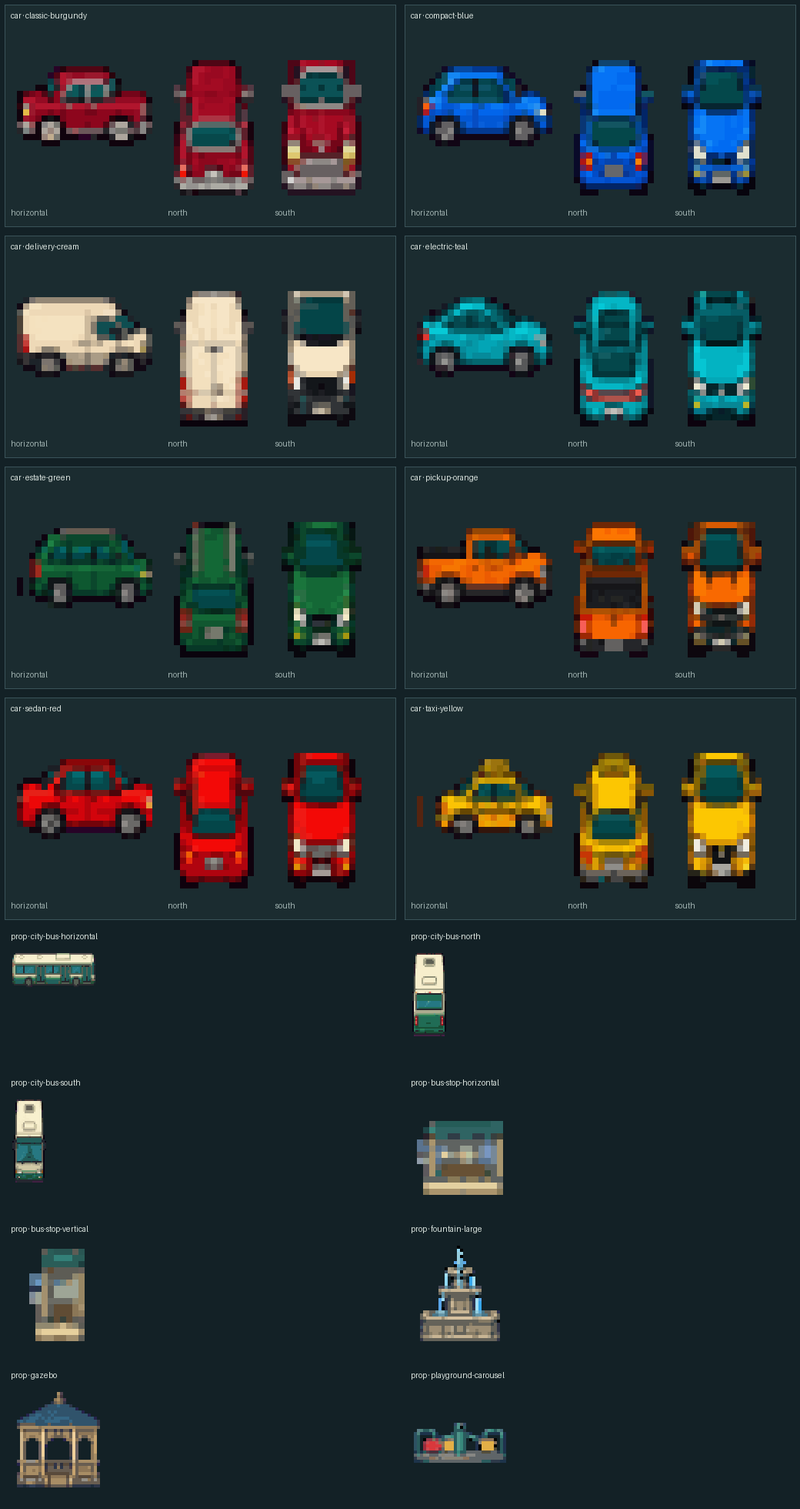
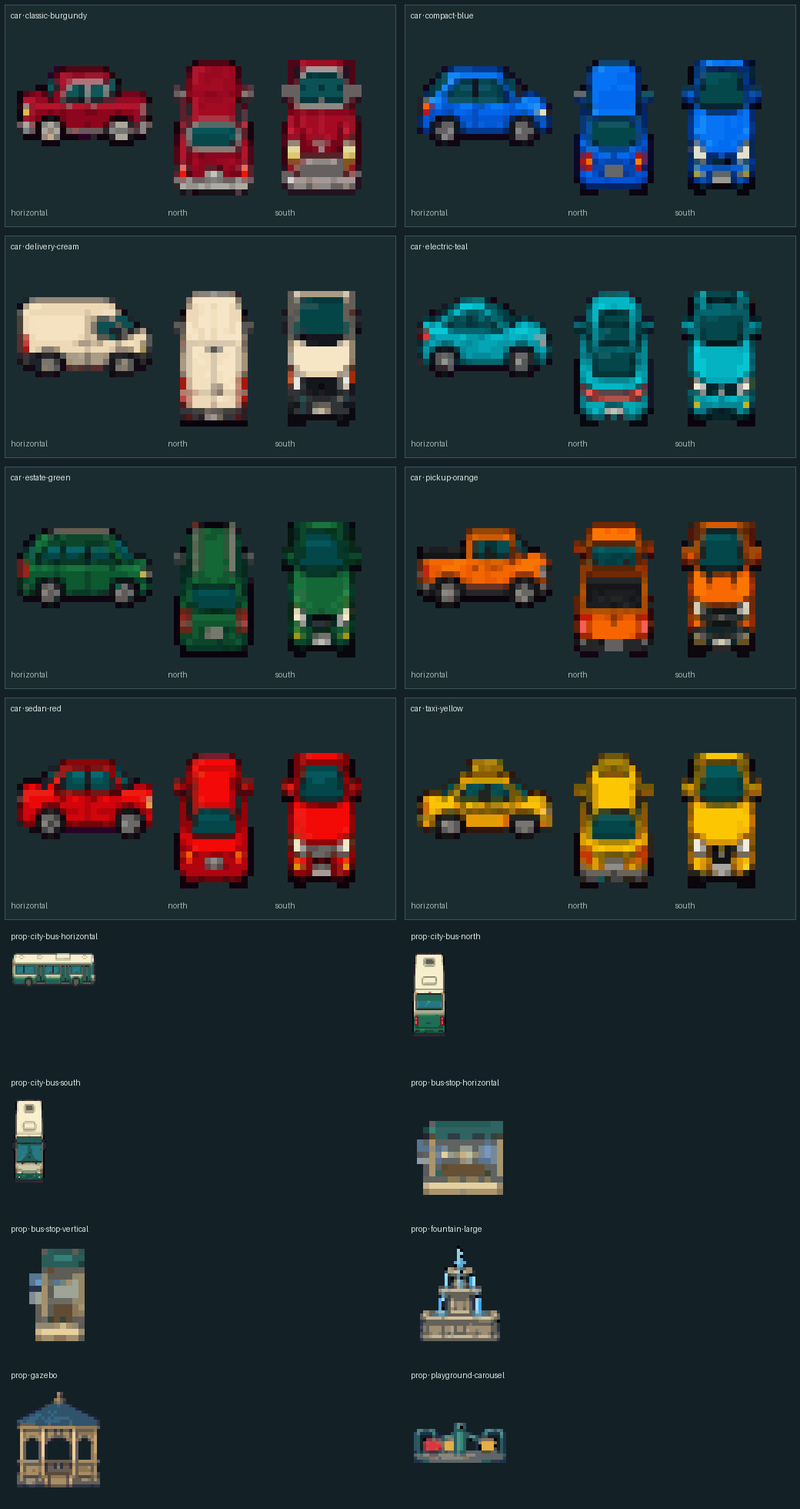
fix: prove mixed traffic and clean vehicle shadows

Changed region(s): [[0.5231, 0.498, 0.7077, 0.5602], [0.0, 0.3423, 0.1846, 0.4046]]

diff --git a/tests/agent-routing.test.ts b/tests/agent-routing.test.ts
@@ -421,7 +421,7 @@ describe("living city agent routing", () => {
     expect(decisions.get("westbound")?.advance).toBeGreaterThan(0);
   });
 
-  it("drains four signal-controlled queues without starvation", () => {
+  it.each(["T", "X"] as const)("drains mixed CAR/BUS queues through a %s junction without starvation", (shape) => {
     type SimVehicle = TrafficVehicleSnapshot & {
       trail: { x: number; y: number }[];
       baseSpeed: number;
@@ -433,31 +433,37 @@ describe("living city agent routing", () => {
       id: "queue-drain",
       bounds: { minX: -3, minY: -3, maxX: 3, maxY: 3 },
       cells: Array.from({ length: 49 }, (_, index) => ({ x: index % 7 - 3, y: Math.floor(index / 7) - 3 })),
-      arms: ["N", "E", "S", "W"],
+      arms: shape === "X" ? ["N", "E", "S", "W"] : ["E", "S", "W"],
       signalPosts: [],
     };
     const range = (start: number, end: number) => Array.from(
       { length: Math.abs(end - start) + 1 },
       (_, index) => start + Math.sign(end - start) * index,
     );
-    const routes = {
+    const allRoutes = {
       east: range(-32, 32).map((x) => ({ x, y: 2 })),
       west: range(32, -32).map((x) => ({ x, y: -2 })),
       south: range(-32, 32).map((y) => ({ x: -2, y })),
       north: range(32, -32).map((y) => ({ x: 2, y })),
     };
+    const routes = Object.entries(allRoutes).filter(([approach]) => shape === "X" || approach !== "north");
     const vehicles: SimVehicle[] = [];
-    for (const [approach, route] of Object.entries(routes)) {
-      for (let queueIndex = 0; queueIndex < 6; queueIndex += 1) {
-        const path = route.slice(26 - queueIndex * 4);
+    for (const [approach, route] of routes) {
+      for (let queueIndex = 0; queueIndex < 3; queueIndex += 1) {
+        // The leader starts one cell before the largest (bus) stop envelope;
+        // later queue members retain a full body-and-gap separation. This is
+        // the same admissible spawn geometry used by the runtime traffic core.
+        const path = route.slice(23 - queueIndex * 9);
+        const kind = queueIndex === 0 && (approach === "east" || approach === "south") ? "BUS" : "CAR";
+        const baseSpeed = vehicleCruiseSpeed(kind, kind === "BUS" ? 0 : 0.5);
         vehicles.push({
           id: `${approach}-${queueIndex}`,
-          kind: "CAR",
+          kind,
           current: path[0]!,
           next: path[1]!,
           progress: 0,
-          cruiseSpeed: 0.0024,
-          baseSpeed: 0.0024,
+          cruiseSpeed: baseSpeed,
+          baseSpeed,
           path,
           trail: [],
           stoppedMs: 0,
@@ -468,7 +474,14 @@ describe("living city agent routing", () => {
 
     let elapsedMs = 0;
     let maxStoppedMs = 0;
-    while (vehicles.length > 0 && elapsedMs < 120_000) {
+    let previousPhase = trafficSignalPhase(junction, 0);
+    const insideConflictZone = (vehicle: SimVehicle) => (
+      vehicle.current.x >= junction.bounds.minX
+      && vehicle.current.x <= junction.bounds.maxX
+      && vehicle.current.y >= junction.bounds.minY
+      && vehicle.current.y <= junction.bounds.maxY
+    );
+    while (vehicles.length > 0 && elapsedMs < 180_000) {
       for (const vehicle of vehicles) {
         const signal = trafficSignalDecision(
           vehicle.current,
@@ -483,6 +496,14 @@ describe("living city agent routing", () => {
           ? 0
           : vehicle.baseSpeed;
       }
+      const phase = trafficSignalPhase(junction, elapsedMs);
+      if (previousPhase.horizontal !== "GREEN" && phase.horizontal === "GREEN") {
+        expect(vehicles.filter((vehicle) => vehicle.current.y !== vehicle.next.y && insideConflictZone(vehicle)), `vertical tail at ${elapsedMs}ms`).toEqual([]);
+      }
+      if (previousPhase.vertical !== "GREEN" && phase.vertical === "GREEN") {
+        expect(vehicles.filter((vehicle) => vehicle.current.x !== vehicle.next.x && insideConflictZone(vehicle)), `horizontal tail at ${elapsedMs}ms`).toEqual([]);
+      }
+      previousPhase = phase;
       const decisions = planVehicleFrame(vehicles, 50);
       for (const vehicle of vehicles) {
         const advance = decisions.get(vehicle.id)?.advance ?? 0;
@@ -502,11 +523,12 @@ describe("living city agent routing", () => {
         if (vehicles[index]!.path.length < 2) vehicles.splice(index, 1);
       }
       expect(vehicleUnsafePairCount(vehicles), `unsafe pair at ${elapsedMs}ms`).toBe(0);
+      expect(vehicles.every((vehicle) => Math.abs(vehicle.next.x - vehicle.current.x) + Math.abs(vehicle.next.y - vehicle.current.y) <= 1), `wrong-way segment at ${elapsedMs}ms`).toBe(true);
       elapsedMs += 50;
     }
 
     expect(vehicles).toHaveLength(0);
-    expect(maxStoppedMs).toBeLessThan(60_000);
+    expect(maxStoppedMs).toBeLessThan(120_000);
   });
 
   it("slows a following car before it reaches the vehicle ahead", () => {

diff --git a/.agents/skills/tasktopia-pixel-city-art/scripts/audit_pixel_style.py b/.agents/skills/tasktopia-pixel-city-art/scripts/audit_pixel_style.py
@@ -366,7 +366,7 @@ def audit(manifest_path: Path, runtime: Path) -> dict[str, Any]:
                     errors.append(f"vehicles/{variant}/horizontal: model is too small at native scale")
                 if orientation in {"north", "south"} and (width < 12 or height < 21):
                     errors.append(f"vehicles/{variant}/{orientation}: model is too small at native scale")
-            if orientation in {"north", "south"}:
+            if orientation in {"horizontal", "north", "south"}:
                 alpha = image.getchannel("A")
                 remaining = {
                     (x, y) for y in range(image.height) for x in range(image.width)

diff --git a/scripts/build-pixel-city-pack.py b/scripts/build-pixel-city-pack.py
@@ -2432,8 +2432,7 @@ def build_manifest(specs: list[HouseSpec]) -> dict:
                     if grid
                     else ai_sheet_segment(source, segment_index, segment_count)
                 )
-                if orientation == "north":
-                    source_segment = keep_largest_opaque_component(remove_ai_chroma_key(source_segment))
+                source_segment = keep_largest_opaque_component(remove_ai_chroma_key(source_segment))
                 image = normalize_ai_authored_ambient(
                     source_segment,
                     canvas_size,

diff --git a/docs/WORLD-GENERATION.md b/docs/WORLD-GENERATION.md
@@ -126,7 +126,7 @@ Renderer рисует terrain → surfaces → roads → optional district bound
 
 PixiJS-приложение живёт всё время выбранной страны и не пересоздаётся при bootstrap/status refresh: effect зависит только от стабильных `countryId`, `chunkSize` и `terrainSeed`, а изменяемые UI callbacks читаются через refs. Сразу после bootstrap main thread синхронно рисует seed-only terrain через дешёвый `Graphics → GPU texture`: первый зелёный кадр не ждёт HTTP, Worker, PNG или manifest assets. `GET /api/world/viewport` параллельно приносит server-owned overlay и атомарно заменяет временный ground. Декор, дороги и здания до authoritative ответа не выдумываются. На дальнем масштабе строится только каждая четвёртая terrain-клетка; decorations и world features отсутствуют, здания заменяются дешёвыми footprint-блоками. На близком масштабе включаются полный detail LOD, платформы и авторские спрайты. Платформа готового здания выводится на фронте из `footprint + platform`, а не хранится отдельной россыпью клеток. Terrain, surfaces и roads каждого LOD-чанка запекаются в одну GPU-текстуру `512×512`; очередь допускает не больше одного bake за animation frame. Ground assets загружаются отдельно и рисуются до фасадов/props, а entity-данные становятся доступны reconcile только после готовности своих текстур; динамические районы, здания, декор и агенты остаются reconcile-слоями. Смена LOD готовит текстуры постепенно, но устанавливает весь ground атомарно до dynamic entities. Панорамирование использует bounded payload/decoded/GPU LRU. Socket.IO несёт `affectedBounds`; обычный status/progress сначала загружает новый stage asset, затем патчит только задачу без chunk HTTP и ground bake. Последний realtime status дополнительно накладывается после materialization, поэтому старый ответ в полёте не возвращает прежнюю стадию; геометрические события адресно обновляют пересекающиеся чанки. Browser diagnostics отдельно считают seed-, invalidated- и LOD-ground rebuild, поэтому скрытая полная инициализация не маскируется под entity update.
 
-Машины и люди получают длинный маршрут одним ограниченным BFS по видимому road/walk graph. Состояние автомобильного поиска включает направление: среди одинаково коротких путей выбирается путь с минимумом поворотов, поэтому двухклеточный поворот не превращается в лестницу `E→N→E→N`. На перекрёстке маршрут продолжается к выбранной дальней цели; первое ребро нового маршрута не ведёт обратно, если существует другой выход. Кузов смещается внутрь правой полосы и плавно интерполируется в повороте. Все машины и автобусы рисуются в нативном масштабе `1.0`: легковой canvas `24×16` имеет занятый корпус не меньше `21×12`, автобус — `56×24` с корпусом не меньше `52×20`; те же размеры использует collision model. Крейсерская скорость автомобиля детерминированно выбирается из диапазона `0.0019–0.0029` клетки/мс, автобуса — `0.00155–0.00190`. Четырёхфазная подвеска привязана к пройденной дистанции: машина меняет только целочисленный Y-offset, не растягивает и не вращает пиксельный PNG; автобус проходит цикл вдвое спокойнее, а нулевая скорость фиксирует нулевую фазу.
+Машины и люди получают длинный маршрут одним ограниченным BFS по видимому road/walk graph. Состояние автомобильного поиска включает направление: среди одинаково коротких путей выбирается путь с минимумом поворотов, поэтому двухклеточный поворот не превращается в лестницу `E→N→E→N`. На перекрёстке маршрут продолжается к выбранной дальней цели; первое ребро нового маршрута не ведёт обратно, если существует другой выход. Кузов смещается внутрь правой полосы и плавно интерполируется в повороте. Все машины и автобусы рисуются в нативном масштабе `1.0`: легковой canvas `24×16` имеет занятый корпус не меньше `21×12`, автобус — `56×24` с корпусом не меньше `52×20`; те же размеры использует collision model. Крейсерская скорость автомобиля детерминированно выбирается из диапазона `0.0019–0.0029` клетки/мс, автобуса — `0.00155–0.00190`. Четыре фазы движения привязаны к пройденной дистанции и меняют только целочисленный пиксельный блик ступицы: кузов не растягивается, не вращается и не подпрыгивает; автобус проходит цикл вдвое спокойнее, а нулевая скорость фиксирует нулевую фазу.
 
 Перед изменением координат единый чистый traffic controller получает короткий снимок маршрутов всех резидентных машин. Он ограничивает догоняющего по ближайшему лидеру на нескольких следующих сегментах с учётом фактической длины PNG автомобиля/автобуса, смещения на правую полосу и защитного интервала. Пересечение маршрутов резервируется заранее: второй участник останавливается до конфликтной клетки, а её занятость сохраняется, пока хвост длинного транспорта полностью не покинет перекрёсток; поворот в общий исходящий ряд использует полный продольный интервал. Красный сигнал, занятый переход и автобусная остановка задают лидеру нулевую скорость, поэтому очередь замедляется сзади и не проходит сквозь остановившийся транспорт. При изменении directed graph транспорт на запрещённом ребре удаляется и создаётся заново через общий валидатор, без телепортации внутрь соседнего кузова. Расчёт ограничен числом видимых агентов, не запускает поиск пути и не создаёт Pixi-объекты.
 
@@ -134,7 +134,7 @@ PixiJS-приложение живёт всё время выбранной ст
 
 Настоящие T/X-узлы дорожного графа получают светофоры `traffic-light-red/green` у подходов. Обычный L-поворот и поперечные клетки широкой прямой дороги не считаются перекрёстком. Локальная улица имеет профиль `3` клетки (`travel/median/travel`), collector/arterial/highway — `7` клеток (`shoulder/travel/median×3/travel/shoulder`); автобусы не создаются на локальной улице. Цикл регулируемого узла даёт 21 секунду admission по горизонтали, 10,5 секунды общего красного, затем 21 секунду по вертикали и ещё 10,5 секунды очистки. Такой запас позволяет минимально быстрому автобусу, допущенному на последнем tick зелёного из пяти клеток stop-envelope, вывести хвост за семиклеточный box до поперечного зелёного. Движение разрешено примерно 67% цикла вместо прежних 38%, а вошедшая машина сохраняет reservation token до полного выхода: смена фазы не оставляет её внутри, и новый поток не въезжает без токена. Соседние узлы получают координатную волну по 250 мс.
 
-Экземпляр агента содержит стабильный ID, текущую клетку, progress, phase, random state и маршрут. Reconcile соседних чанков или zoom внутри detail не пересоздаёт его; агент удаляется только когда обе его следующие клетки действительно ушли из резидентного графа. Жители используют холст `16×24`, целочисленный масштаб `1.0` и три authored-фазы на направление; цикл идёт `A→B→C→B` по пройденной дистанции. Все три позы одного направления импортируются одним семейным коэффициентом масштаба: узкая проходящая поза сохраняет естественную ширину и больше не растягивается до occupied-box контактных кадров; baseline и центр массы затем выравниваются только целочисленным сдвигом. Велосипед и самокат используют стабильные occupied-box и baseline во всех трёх кадрах, поэтому горизонтальное движение не сжимает фигуру. Машины сохраняют один кузов и контакт с полосой, а четыре distance-фазы вращают только пиксельный блик ступицы; north/south gate запрещает разорванный кузов и оторванную generated-тень. Animated grid режется по реальным chroma-separated силуэтам внутри строки, а не по математическим третям исходника: соседний кадр не может попасть в текущий. Животные меньше человека; север/юг/восток являются независимыми authored-фазами, запад — точное пиксельное зеркало востока. Направление выбирается из фактического вектора движения, а не из старого состояния маршрута. `npm run assets:verify` обязательно запускает gate всех 42 семейств/126 кадров и проверяет hard alpha, отсутствие chroma/magenta matte, общий baseline, distinct frames, зеркала, площадь и центр массы силуэта; GIF-доказательства создаются командой `python scripts/verify-agent-animations.py --gif-dir <dir>`.
+Экземпляр агента содержит стабильный ID, текущую клетку, progress, phase, random state и маршрут. Reconcile соседних чанков или zoom внутри detail не пересоздаёт его; агент удаляется только когда обе его следующие клетки действительно ушли из резидентного графа. Жители используют холст `16×24`, целочисленный масштаб `1.0` и три authored-фазы на направление; цикл идёт `A→B→C→B` по пройденной дистанции. Все три позы одного направления импортируются одним семейным коэффициентом масштаба: узкая проходящая поза сохраняет естественную ширину и больше не растягивается до occupied-box контактных кадров; baseline и центр массы затем выравниваются только целочисленным сдвигом. Велосипед и самокат используют стабильные occupied-box и baseline во всех трёх кадрах, поэтому горизонтальное движение не сжимает фигуру. Машины сохраняют один кузов и контакт с полосой, а четыре distance-фазы вращают только пиксельный блик ступицы; gate всех 24 исходных ракурсов запрещает разорванный кузов и отдельную generated-тень. Animated grid режется по реальным chroma-separated силуэтам внутри строки, а не по математическим третям исходника: соседний кадр не может попасть в текущий. Животные меньше человека; север/юг/восток являются независимыми authored-фазами, запад — точное пиксельное зеркало востока. Направление выбирается из фактического вектора движения, а не из старого состояния маршрута. `npm run assets:verify` обязательно запускает gate всех 42 семейств/126 кадров и проверяет hard alpha, отсутствие chroma/magenta matte, общий baseline, distinct frames, зеркала, площадь и центр массы силуэта; GIF-доказательства создаются командой `python scripts/verify-agent-animations.py --gif-dir <dir>`.
 
 Больница, семь fuel-service вариантов, городской паркинг и главный корпус Государственного архива используют единый frontal-top контракт: клетка `8 px`, проецируемая крыша не меньше 6 px, двери `8×16` или двойные `16×16`, независимые стадии 3–5. Fuel-family использует общий V6 design sheet по одной отдельной строке на стадию и silhouette extraction, поэтому highway-профиль не попадает в соседний compact-спрайт. Минимальный canvas АЗС `96×72`, footprints начинаются с `12×7`; truck/highway закономерно больше. `commercial-parking-lot` — готовый трёхэтажный корпус `96×72`/`12×7` с отдельными автомобильным и человеческим входами, а не строительный каркас. Платформа собирается на фронте из footprint и не хранится россыпью клеток. Архивный compound `42×28` берёт размеры корпусов из каталога; его трёхклеточный driveway, проём забора и barrier используют одну ширину.
 

diff --git a/CHANGELOG.md b/CHANGELOG.md
@@ -3,8 +3,8 @@
 ## Unreleased
 
 - Пешеходный импорт перешёл с независимого растягивания каждого кадра до `12×18` на общий family-scale для `A/B/C`; новые north/east/south листы имеют две читаемые контактные позы, проходящую позу обеих ног, общий baseline и проходят обязательный animation gate внутри `npm run assets:verify`.
-- Восемь автомобильных моделей пересобраны в одной orthographic frontal-top проекции с общими колёсами, дверями, линией контакта и направленными north/south видами. Отдельная generated-тень больше не попадает в north-кузов; runtime анимирует четыре положения блика ступицы и не поднимает весь кузов между фазами, поэтому машина движется без поперечного скачка.
-- Светофорный цикл увеличивает полезное движение с 38% до 67%: две 21-секундные зелёные фазы разделены 10,5-секундным all-red. Этого хватает минимально быстрому автобусу, допущенному на последнем tick из пяти клеток stop-envelope, чтобы полностью вывести хвост из семиклеточного box; throughput-test фиксирует поздний допуск и момент поперечного зелёного.
+- Восемь автомобильных моделей пересобраны в одной orthographic frontal-top проекции с общими колёсами, дверями, линией контакта и направленными north/south видами. Импорт сохраняет только связный кузов во всех 24 исходных ракурсах, поэтому отдельная generated-тень не попадает в спрайт; runtime анимирует четыре положения блика ступицы и не поднимает весь кузов между фазами.
+- Светофорный цикл увеличивает полезное движение с 38% до 67%: две 21-секундные зелёные фазы разделены 10,5-секундным all-red. Этого хватает минимально быстрому автобусу, допущенному на последнем tick из пяти клеток stop-envelope, чтобы полностью вывести хвост из семиклеточного box; детерминированные тесты насыщенных T/X-перекрёстков фиксируют очистку конфликтной зоны, отсутствие starvation и полное освобождение смешанных очередей CAR/BUS.
 - Ошибка запуска WebGL теперь переводит карту в явный recoverable state и действительно пересоздаёт renderer по кнопке. После уже показанного seed-кадра сбой overlay/chunk отображается компактным уведомлением и больше не перекрывает всю карту.
 - Растительность, кусты, камни и поля пшеницы/кукурузы переведены в chunk-stable seed generator без строк backend; park interior выводится из родительской AREA, legacy `PARK_DECOR` удаляется миграцией и запрещён constraint-ом.
 - Дороги получили профили local `3` и collector/arterial/highway `7`; машины пересобраны в нативном `24×16`, автобус — `56×24`. Stateful admission token, длинная all-red очистка и blocked-exit reservation устраняют встречный въезд и циклические пробки.

diff --git a/docs/qa/WORLD-VALIDATION.md b/docs/qa/WORLD-VALIDATION.md
@@ -70,7 +70,7 @@ Playwright последовательно открывает каждый гор
 - два worker одновременно claim'ят только одну idempotent command; длинная command обновляет heartbeat и не reclaim'ится;
 - bounded timeout возвращает accepted job (`202` HTTP, успешный MCP result), который доступен через оба polling-контракта;
 - два Redis-клиента на холодном locator вызывают один builder; timeout, eviction и остановленный Redis дают PostgreSQL fallback;
-- регулируемый четырёхсторонний поток из 24 машин имеет ноль unsafe pairs и ни одна машина не ждёт больше 60 секунд; въехавший на красном хвост освобождает узел.
+- насыщенные T- и X-перекрёстки со смешанными очередями CAR/BUS полностью освобождаются за детерминированные 180 секунд, имеют ноль unsafe pairs, не оставляют поперечный хвост в конфликтной зоне при смене фазы и не допускают starvation.
 
 Команды перед production rollout:
 
